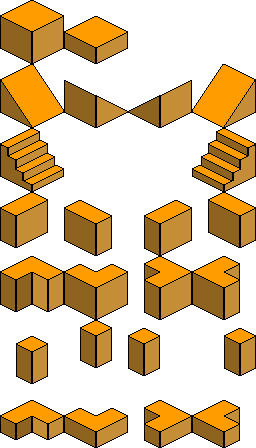
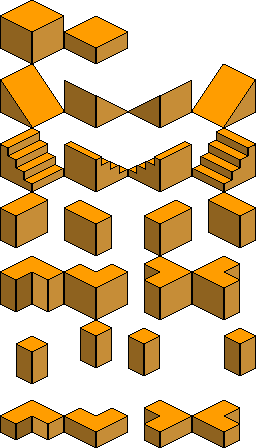
Feature - Playable Character:
- sprites for the two missing stairs orientations have been added to all 4 terrain sprite sheets
- all map csv have been updated : a new layer (0) that draws the whole map's floor now exists. All previous layer are now z+1

Changed region(s): [[0.0625, 0.3125, 0.9375, 0.4375]]

diff --git a/src/game.py b/src/game.py
@@ -29,11 +29,11 @@ class Game(metaclass=Singleton):
         # At least two, for the couples of views that don't share width & length.
         self.map = []
         self.map_name = 'proto_map_homemade'
-        for i in range(3):
+        for i in range(4):
             self.map.append(sup.import_csv_layout(f'{cfg.MAPS_FOLDER}{self.map_name}_{i}{cfg.MAPS_EXTENSION}'))
         self.camera_orientation = cfg.CAMERA_NORTH
 
-        self.test_character = character.Character((), cfg.CHARACTER_TEST, (2, 2, 1))
+        self.test_character = character.Character((), cfg.CHARACTER_TEST, (2, 2, 2))
         self.key_pressed_start_timer = 0
         self.key_pressed_cooldown = cfg.KEY_PRESSED_COOLDOWN
 
